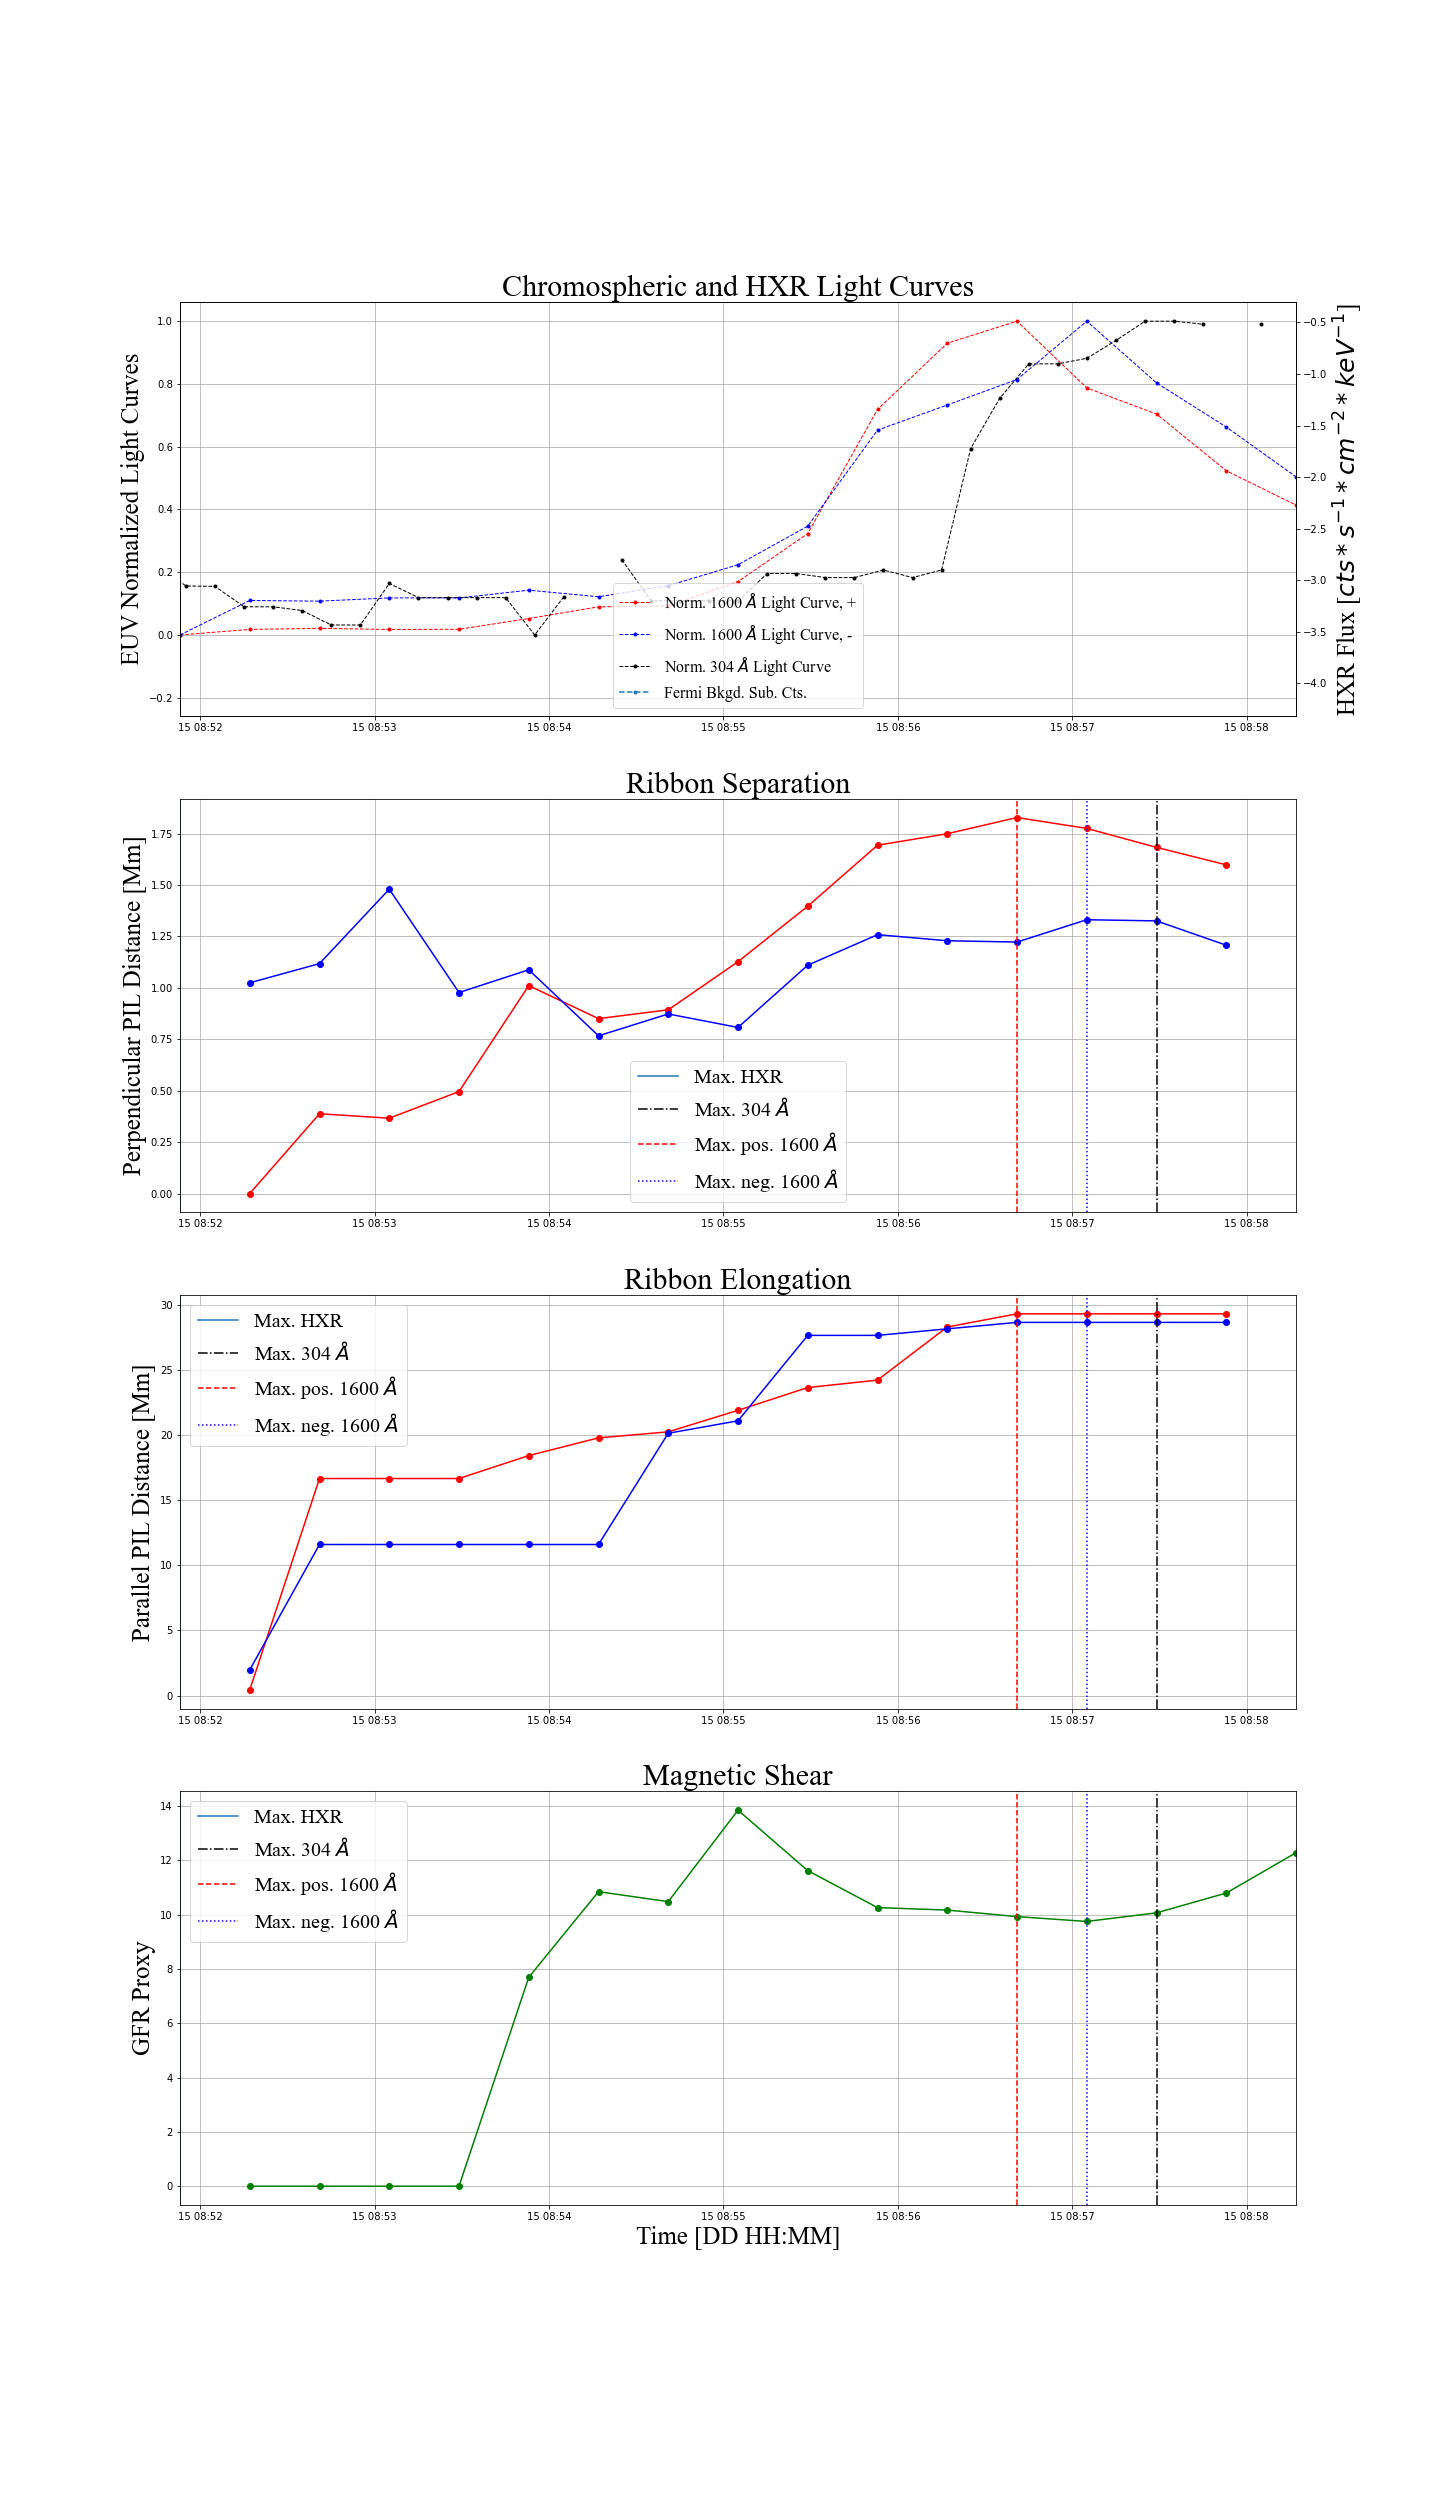
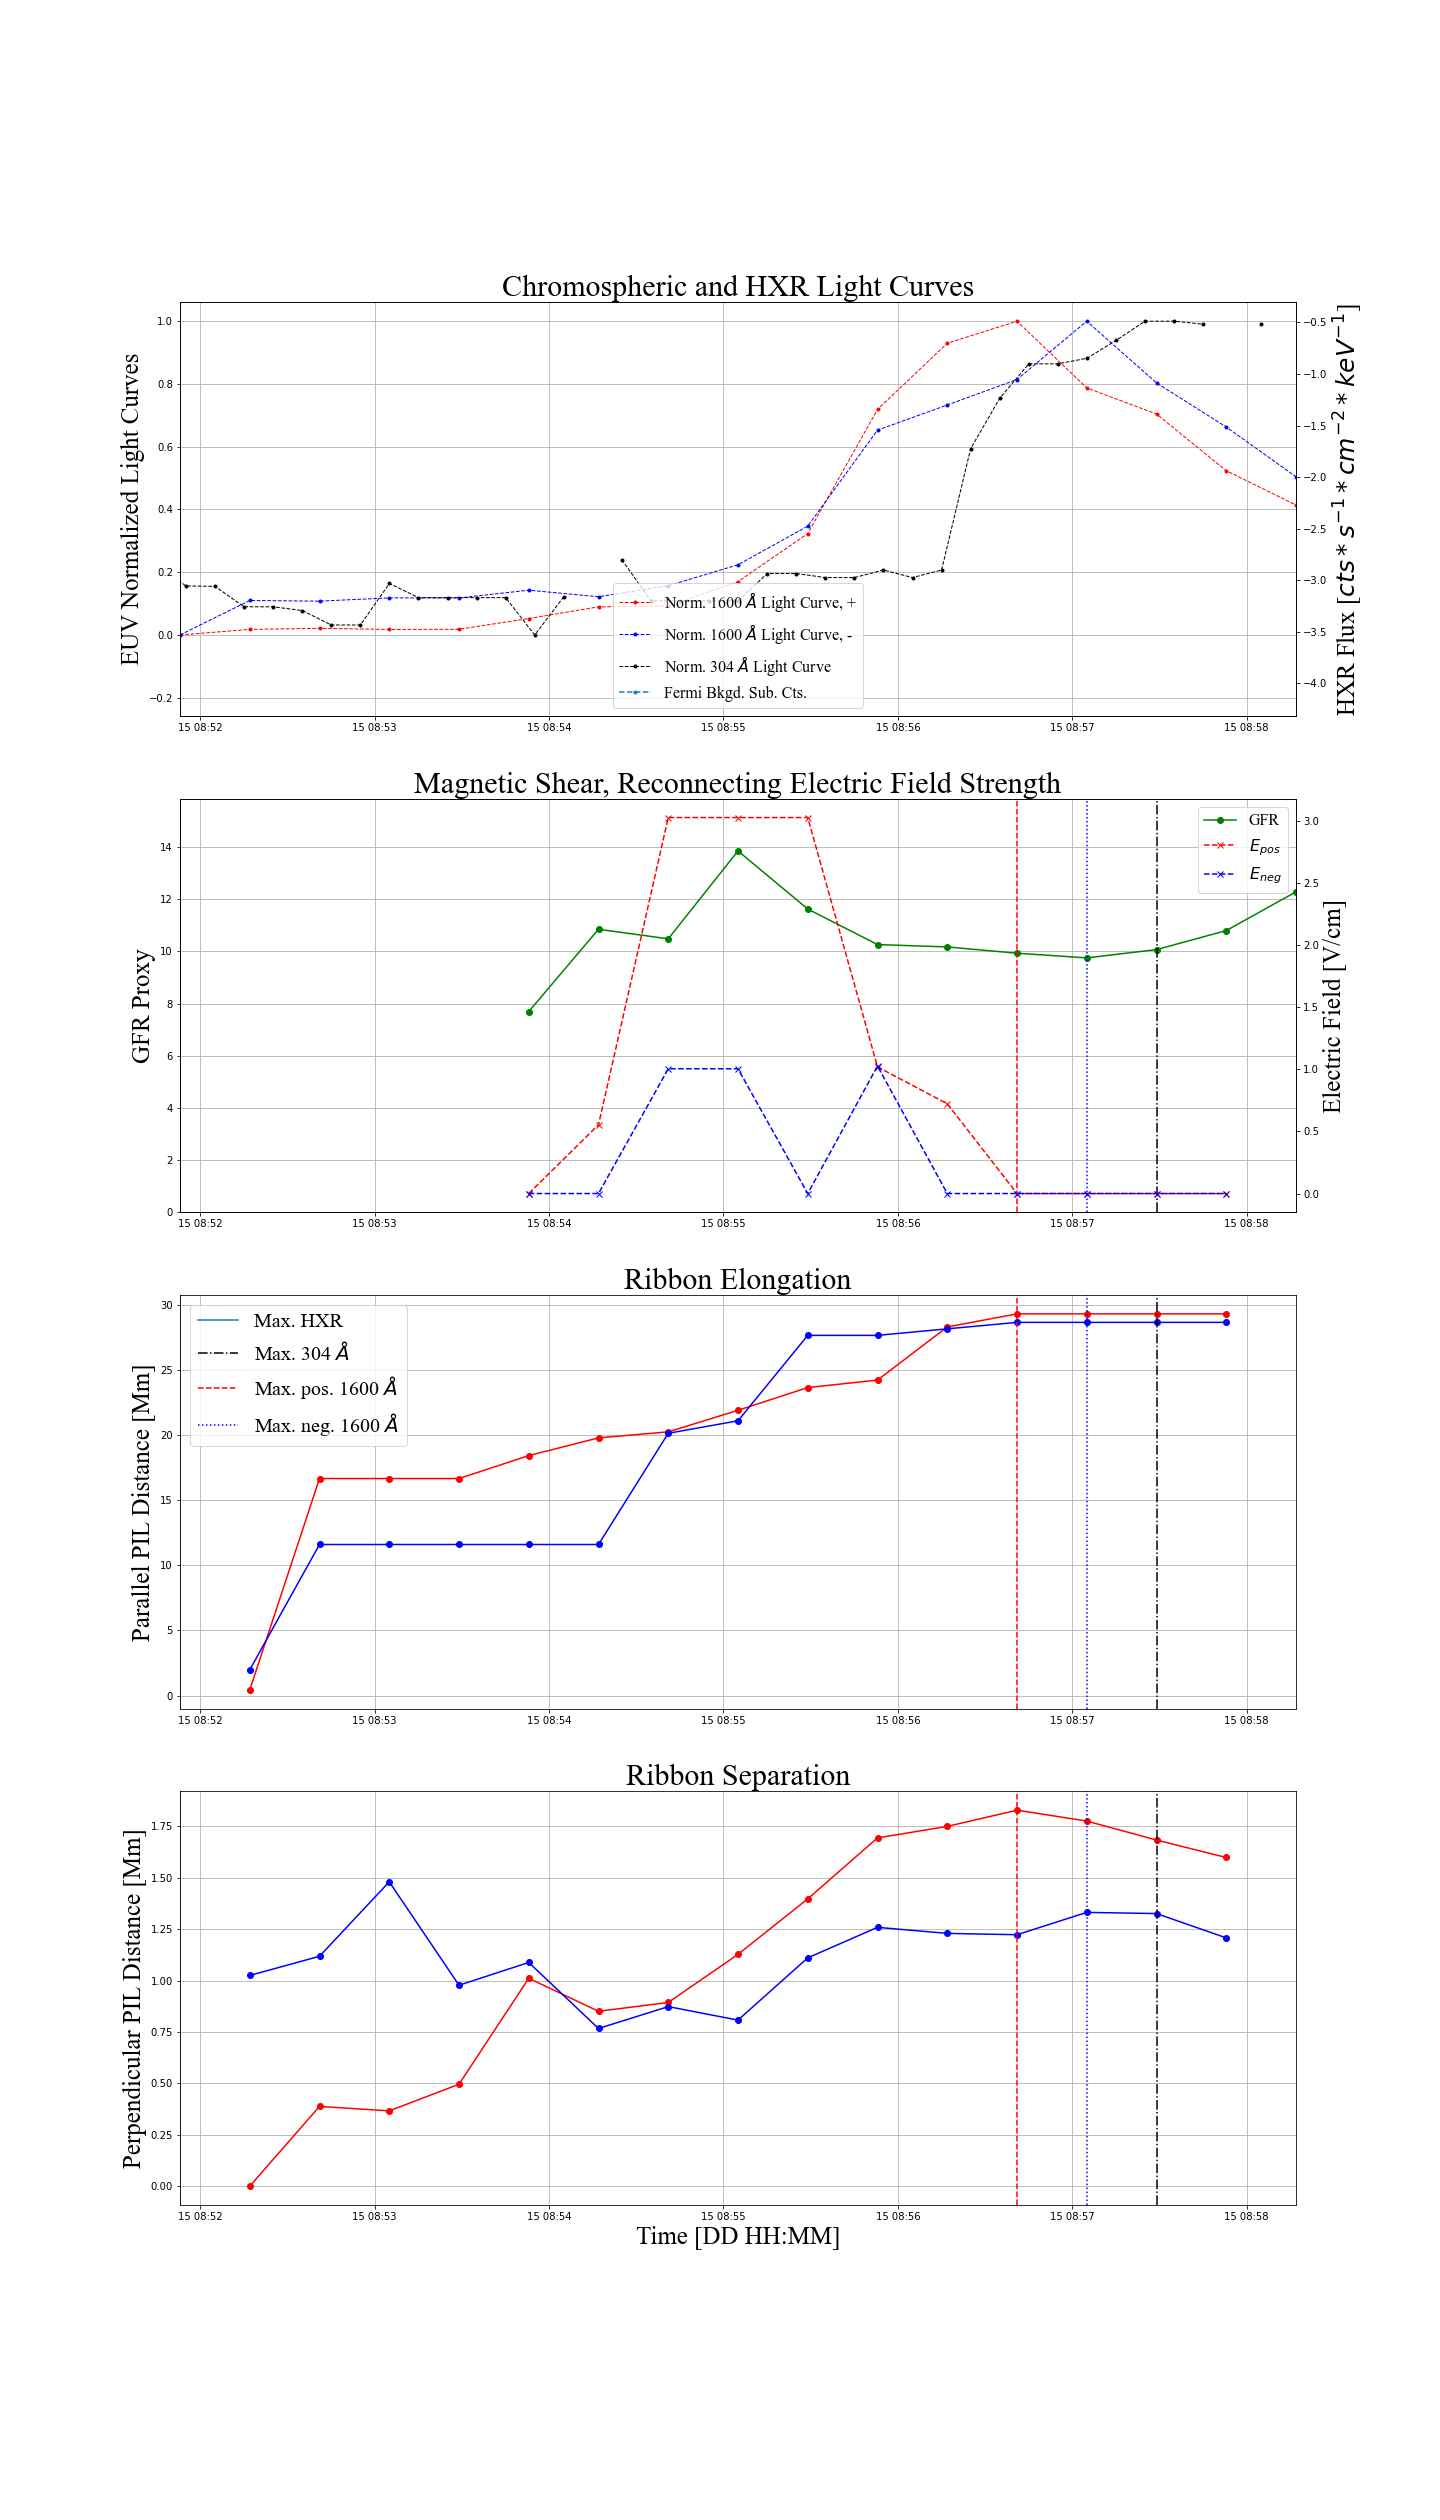
shear to angle conversion code

diff --git a/high2_process.py b/high2_process.py
@@ -293,7 +293,13 @@ raw_hxr_sum, cspec_hxr_sum, fermitimes = fl_funcs.process_fermi(daystr, mostr,
 
 indstrt_sep = 1
 indstrt_elon = 1
-gfr_trans = 1
+gfr_trans = 5
+
+E_pos, E_neg, E_rat, time_E = fl_funcs.E_field_det(conv_f, distpos_med,
+                                                   distneg_med, timelab, 
+                                                   hmi_dat, pos_rem, neg_rem, 
+                                                   flnum, dt1600, times,
+                                                   startind=gfr_trans)
 
 fl_funcs.plt_fourpanel(times, gfr, gfr, flnum, dt1600, time304,
                   filter_304, lens_pos_Mm, lens_neg_Mm, distpos_Mm, distneg_Mm,
@@ -304,12 +310,7 @@ fl_funcs.plt_fourpanel(times, gfr, gfr, flnum, dt1600, time304,
                   sepperiod_start_neg, sepperiod_end_neg, exp_ind,
                   s304, e304, pos1600, neg1600, dn1600, indstrt_elon, 
                   indstrt_sep, fermitimes, raw_hxr_sum, cspec_hxr_sum,
-                  gfr_trans, low_hxr=5000, high_hxr=7000,  period_flag = 0, 
+                  gfr_trans, E_pos, E_neg, time_E, low_hxr=5000, high_hxr=7000,  period_flag = 0, 
                   flag = 1)
 
 
-E_pos, E_neg, E_rat, time_E = fl_funcs.E_field_det(conv_f, distpos_med,
-                                                   distneg_med, timelab, 
-                                                   hmi_dat, pos_rem, neg_rem, 
-                                                   flnum, dt1600, times,
-                                                   startind=1)

diff --git a/fl_funcs.py b/fl_funcs.py
@@ -3999,6 +3999,34 @@ def E_field_det(conv_f, distpos, distneg, timelab, hmi_dat, pos_rem, neg_rem,
     
     return E_pos, E_neg, E_rat, time_E
 
+def shear_to_angle(times, flnum, dt1600, left_gfr, right_gfr, flag = 0):
+    ang_prep_left = 1/left_gfr
+    ang_prep_right = 1/right_gfr
+    
+    shear_ang_left = np.arctan(ang_prep_left)*180./np.pi
+    shear_ang_right = np.arctan(ang_prep_right)*180./np.pi
+    
+    timelab = range(0, 24*len(times), 24)
+    s = str(dt1600[0])
+    fig, ax = plt.subplots(figsize=(13, 7))
+    if flag == 0:
+        ax.plot(timelab, shear_ang_left, c='green', marker='o',
+                label='Shear Angle, Left')
+
+        ax.plot(timelab, shear_ang_right, c='black', marker='o', label='Shear Angle, Right')
+    elif flag == 1:
+        ax.plot(timelab, right_gfr, c='black', marker='o', label='GFR proxy')
+        ax.set_xlabel('Time [s since '+s[5:-7]+']', font='Times New Roman',
+                      fontsize=18)
+        ax.set_ylabel('Shear Angle', font='Times New Roman', fontsize=18)
+
+    ax.set_title('Shear Angle', font='Times New Roman', fontsize=20)
+    ax.grid()
+    ax.legend(fontsize=15)
+    fig.savefig(str(flnum) + '_shear_angle.png')
+    
+    return shear_ang_left, shear_ang_right
+
 def plt_fourpanel(times, right_gfr, left_gfr, flnum, dt1600, time304,
                   filter_304, lens_pos_Mm, lens_neg_Mm, distpos_Mm, distneg_Mm,
                   dt304, timelab, conv_f,
